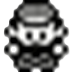
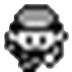
refactor Character

diff --git a/src/AppUpdate.cpp b/src/AppUpdate.cpp
@@ -31,19 +31,15 @@ void App::Update() {
     } else if (Util::Input::IsKeyPressed(Util::Keycode::UP)) {
         Displacement = {0, -72.0 / Player->GetSpeed()};
         DisplacementCount = Player->GetSpeed();
-        Player->SetDrawable(std::make_shared<Util::Image>(RESOURCE_DIR"/Charactor/playerback.png"));
     } else if (Util::Input::IsKeyPressed(Util::Keycode::DOWN)) {
         Displacement = {0, 72.0 / Player->GetSpeed()};
         DisplacementCount = Player->GetSpeed();
-        Player->SetDrawable(std::make_shared<Util::Image>(RESOURCE_DIR"/Charactor/playerfront.png"));
     } else if (Util::Input::IsKeyPressed(Util::Keycode::RIGHT)) {
         Displacement = {-72.0 / Player->GetSpeed(), 0};
         DisplacementCount = Player->GetSpeed();
-        Player->SetDrawable(std::make_shared<Util::Image>(RESOURCE_DIR"/Charactor/playerright.png"));
     } else if (Util::Input::IsKeyPressed(Util::Keycode::LEFT)) {
         Displacement = {72.0 / Player->GetSpeed(), 0};
         DisplacementCount = Player->GetSpeed();
-        Player->SetDrawable(std::make_shared<Util::Image>(RESOURCE_DIR"/Charactor/playerleft.png"));
     }
 
 

diff --git a/src/AppStart.cpp b/src/AppStart.cpp
@@ -131,13 +131,20 @@ void App::Start() {
     tempBox->SetVisible(false);
     m_Root.AddChildren(tempBox->GetChildren());
 
-    Player = std::make_shared<Character>();
-    Player->SetZIndex(50);
-    Player->SetPosition({36, -36});
-    Player->SetVisible(false);
-    m_Root.AddChild(Player);
 
-    NPC_Bromance = std::make_shared<Character>();
+    tempText.clear();
+    for(int i=1;i<3;i++)
+        tempText.push_back(RESOURCE_DIR"/Charactor/playerfront_" + std::to_string(i) + ".png");
+    Player = std::make_shared<Character>(tempText);
+    Player->GetImage()->SetZIndex(50);
+    Player->GetImage()->SetPosition({36, -36});
+    Player->GetImage()->SetVisible(false);
+    m_Root.AddChild(Player->GetImage());
+
+
+    tempText.clear();
+    tempText.push_back(RESOURCE_DIR"/Charactor/enemyfront_1.png");
+    NPC_Bromance = std::make_shared<Character>(tempText);
 
     m_CurrentState = State::HOME;
 }

diff --git a/include/Character.hpp b/include/Character.hpp
@@ -1,26 +1,28 @@
 #ifndef POKEMON_CHARACTER_HPP
 #define POKEMON_CHARACTER_HPP
 
-#include "Util/GameObject.hpp"
+#include "GIF.hpp"
 #include "PokemonBag.hpp"
 
-class Character : public Util::GameObject {
+class Character {
 private:
     std::string m_Name;
     float m_Speed;
     PokemonBag m_PokemonBag;
+    std::shared_ptr<GIF> m_Image;
 public:
-    Character();
+    explicit Character(const std::vector<std::string> &ImagePaths);
 
     std::string &GetName();
 
     int GetSpeed();
 
+    std::shared_ptr<GIF> GetImage();
+
     void SetName(const std::string &str);
 
     void SetSpeed(float value);
 
-    void SetPosition(const glm::vec2 &Position);
 };
 
 #endif

diff --git a/src/Character.cpp b/src/Character.cpp
@@ -1,7 +1,8 @@
 #include "Character.hpp"
 
-Character::Character() {
+Character::Character(const std::vector<std::string> &ImagePaths) {
     m_Speed = 10;
+    m_Image=std::make_shared<GIF>(ImagePaths);
 }
 
 std::string &Character::GetName() {
@@ -12,14 +13,14 @@ int Character::GetSpeed() {
     return m_Speed;
 }
 
+std::shared_ptr<GIF> Character::GetImage() {
+    return m_Image;
+}
+
 void Character::SetName(const std::string &str) {
     m_Name = str;
 }
 
 void Character::SetSpeed(float value) {
     m_Speed = value;
-}
-
-void Character::SetPosition(const glm::vec2 &Position) {
-    m_Transform.translation = Position;
 }

diff --git a/src/AppInit.cpp b/src/AppInit.cpp
@@ -67,8 +67,7 @@ void App::Init() {
         m_tempImage->SetVisible(false);
         m_Map->SetVisible(true);
         m_Map->SetPosition({-1224, 2592});
-        Player->SetDrawable(std::make_shared<Util::Image>(RESOURCE_DIR"/Charactor/playerfront.png"));
-        Player->SetVisible(true);
+        Player->GetImage()->SetVisible(true);
         DisplacementCount = 0;
         m_BGM->LoadMedia(RESOURCE_DIR"/BGM/PalletTown.mp3");
         m_BGM->Play();
